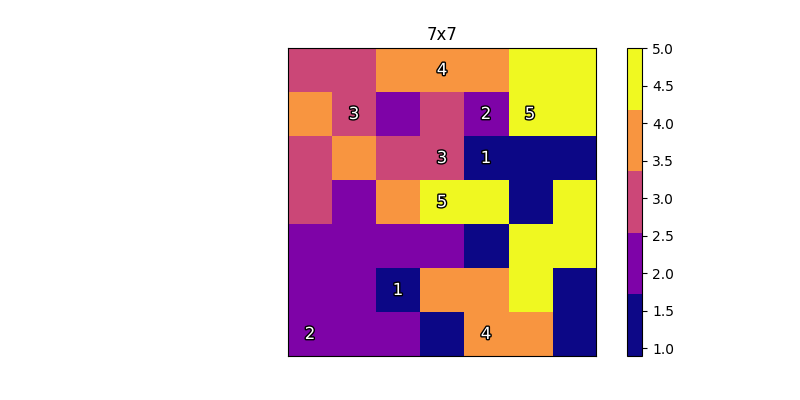
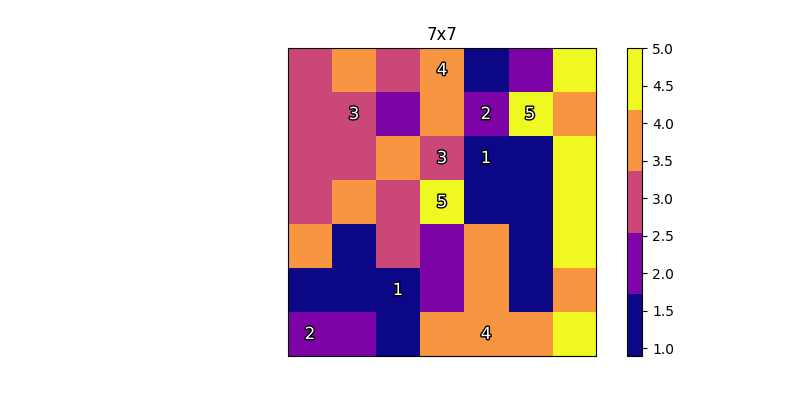
wip

Changed region(s): [[0.3438, 0.12, 0.75, 0.9]]

diff --git a/Source/Genetic.py b/Source/Genetic.py
@@ -37,7 +37,20 @@ class Genetic():
         #print() #TESTING, use this as breakpoint to check grid
 
     #Randomly guess next path from current location
-    def __FindRandomAdjacentPath(self, x, y, population):
+    def __FindRandomAdjacentPath(self, x, y, population, currentNumber):
+        if y + 1 < self.gridSize:
+            if population[x][y+1] == currentNumber:
+                return (-2, -2)
+        if x + 1 < self.gridSize:
+            if population[x+1][y] == currentNumber:
+                return (-2, -2)
+        if x - 1 >= 0:
+            if population[x-1][y] == currentNumber:
+                return (-2, -2)
+        if y - 1 >= 0:
+            if population[x][y-1] == currentNumber:
+                return (-2, -2)
+        
         guesses = [1,2,3,4]
         np.random.shuffle(guesses)
 
@@ -78,11 +91,13 @@ class Genetic():
                 foundIndex = np.where(self.grid == j)
                 indexes.append(list(zip(foundIndex[0], foundIndex[1])))
 
+            firstNum = random.randint(0,1)
             #fill the grid
             while True:
                 if currentNumber == 0:
                     currentNumber = 1
-                if currentNumber not in partialFinishedNums:
+
+                if firstNum == 1:
                     x = indexes[currentNumber-1][0][0]
                     y = indexes[currentNumber-1][0][1]
                 else: #grab the second number start location
@@ -91,22 +106,21 @@ class Genetic():
 
                 x, y = self.__FindRandomAdjacentPath(x, y, newPopulation)
                 
+                if x == -2 or y == -2:
+                    finishedNums.append(currentNumber)
+
                 #no new path can be made
                 if x == -1 and y == -1:
-                    if currentNumber not in partialFinishedNums:
-                        partialFinishedNums.append(currentNumber)
-                        currentNumber = (currentNumber+1)%(self.NumberofNumbers+1)
-                    elif currentNumber in partialFinishedNums:
-                        if currentNumber not in finishedNums:
-                            finishedNums.append(currentNumber)
-                        if len(finishedNums) == self.NumberofNumbers:
-                            break
+                    if currentNumber not in finishedNums:
+                        finishedNums.append(currentNumber)
+                    if len(finishedNums) == self.NumberofNumbers:
+                        break
                     currentNumber = (currentNumber+1)%(self.NumberofNumbers+1)
                     continue
 
-                if currentNumber not in partialFinishedNums:
+                if firstNum == 1:
                     indexes[currentNumber-1][0] = (x,y)
-                elif currentNumber in partialFinishedNums:
+                else:
                     indexes[currentNumber-1][1] = (x,y)
 
                 newPopulation[x][y] = currentNumber
